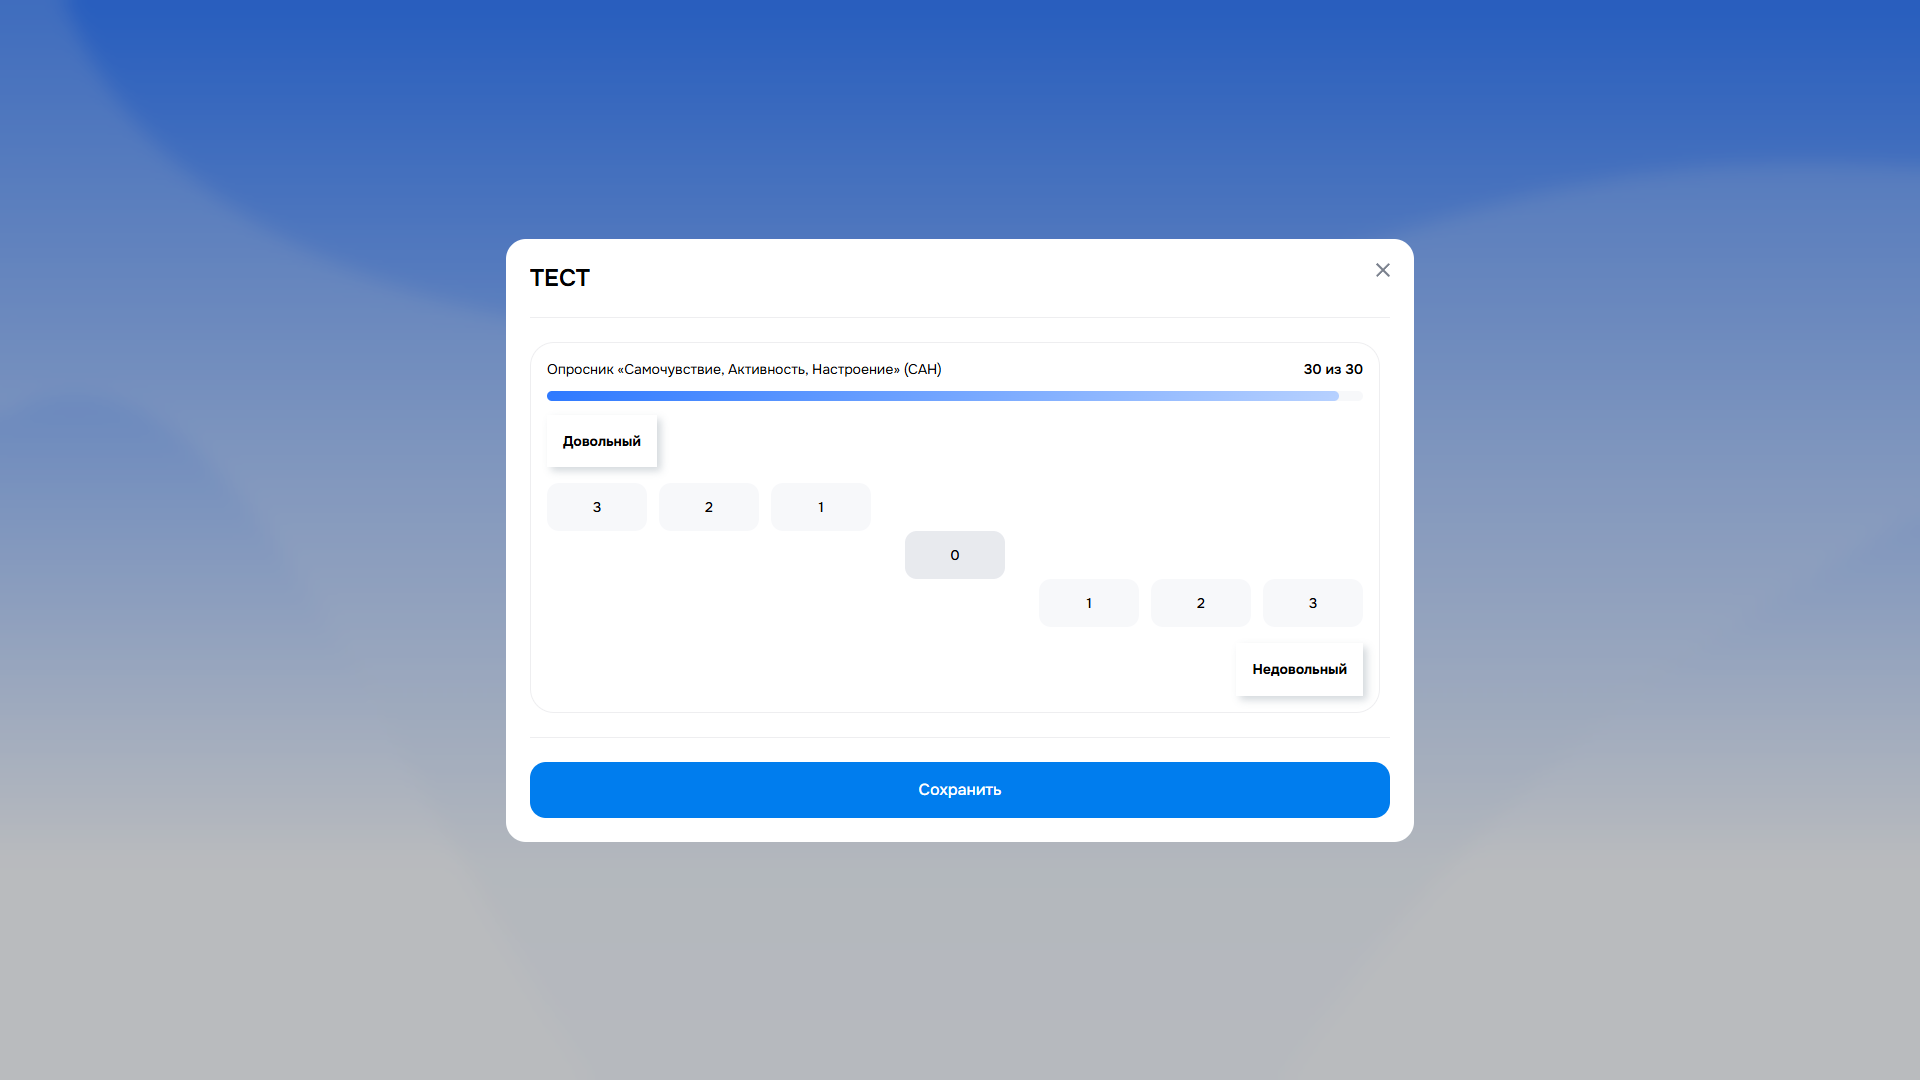
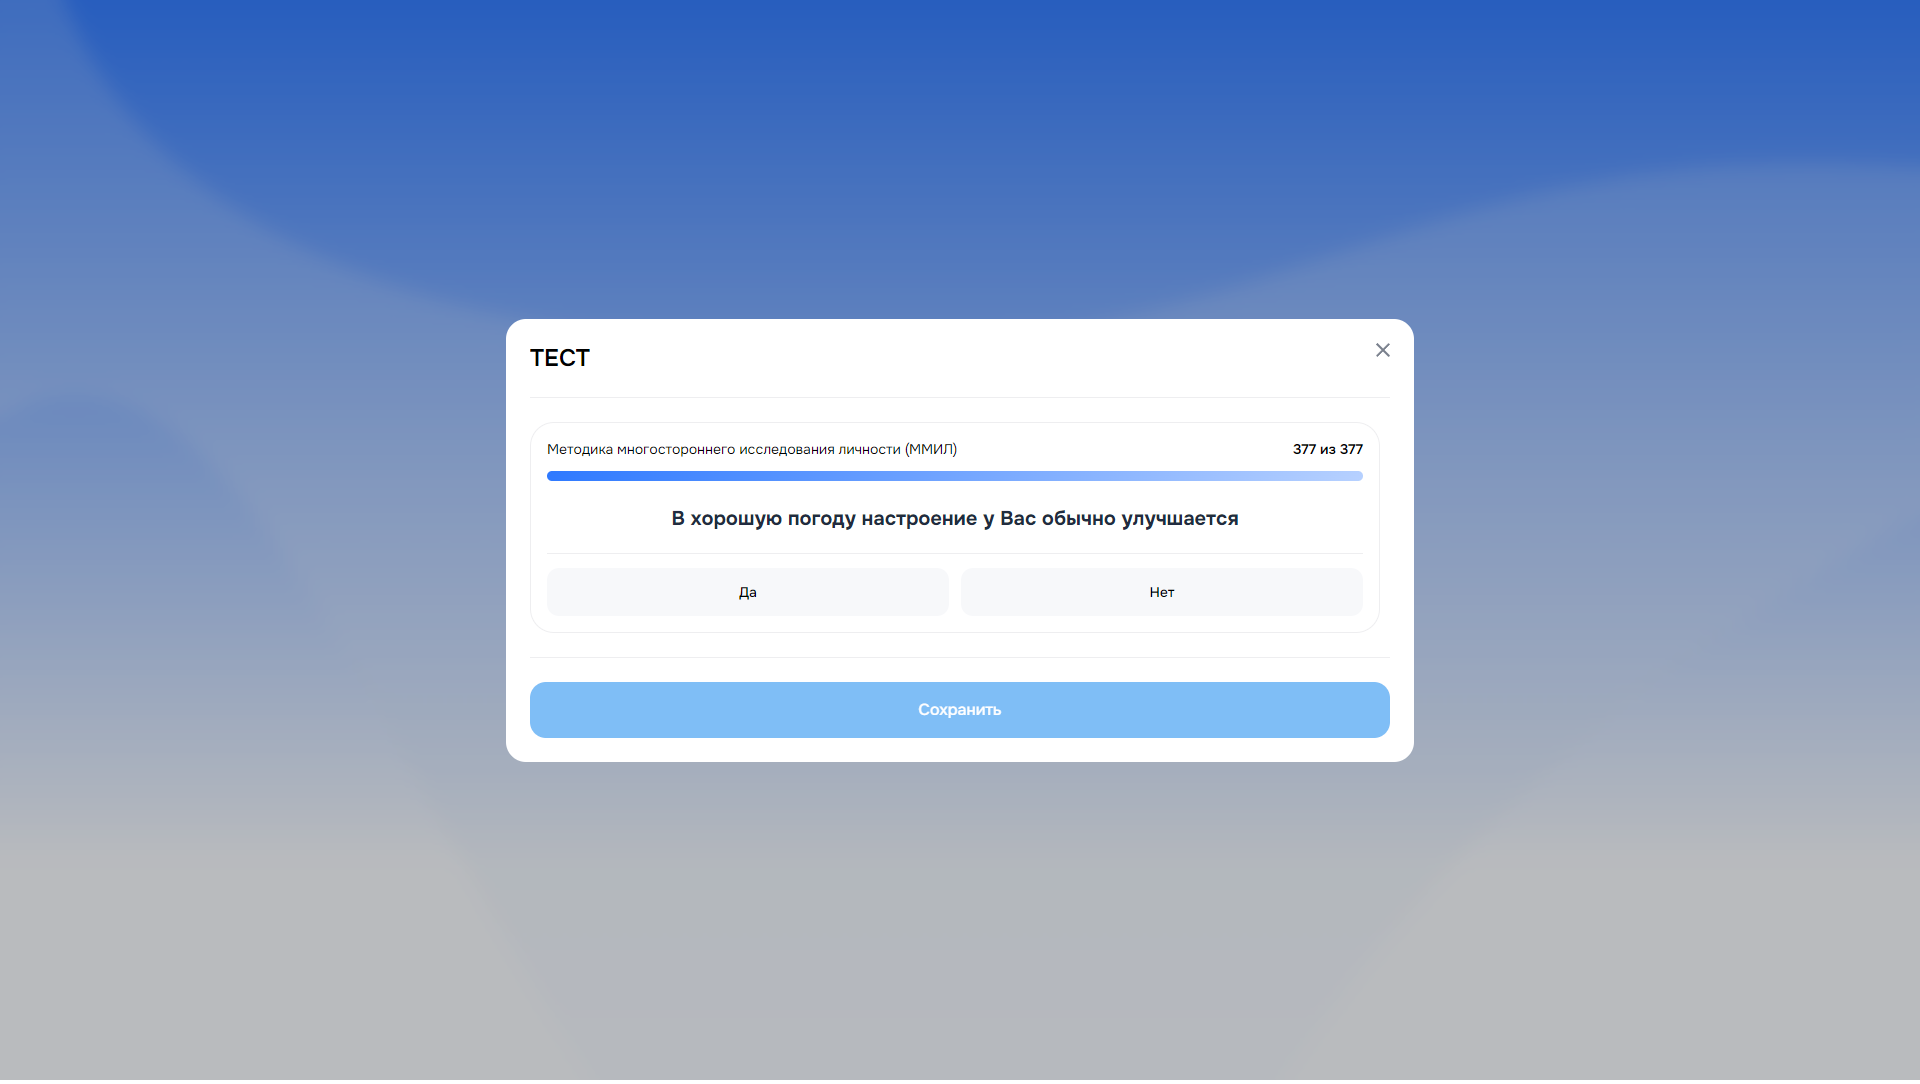
1

Changed region(s): [[0.25, 0.2131, 0.75, 0.4871], [0.25, 0.6089, 0.75, 0.7915]]

diff --git a/tests/test_serb.py b/tests/test_serb.py
@@ -1,3 +1,5 @@
+import time
+
 import pytest
 from core.utils.files_helpers.CAH_data import CAH
 from core.utils.files_helpers.MMIL_data import MMIL
@@ -50,7 +52,7 @@ class TestSerb:
     #     auth_serb.go_to_page_doctor()
     #     auth_serb.check_interpretation_for_test(interpretation)
 
-    @pytest.mark.parametrize('answers', [MMIL.answer_test_less_1])
+    @pytest.mark.parametrize('answers', [MMIL.answer_test_less])
     def test_MMIL(self, auth_serb, answers):
         auth_serb.create_test_go_to_test_MMIL()
         auth_serb.select_test_MMIL()
@@ -61,5 +63,9 @@ class TestSerb:
             auth_serb.save_answer_in_test()
         auth_serb.expect_notification_completed_test()
         auth_serb.go_to_page_doctor()
+
+    #
+    # def test_delete(self, auth_serb):
+    #     auth_serb.delete_all_obs('Ланцов Даниил Андреевич')
 
 

diff --git a/page_objects/page/serb_tests.py b/page_objects/page/serb_tests.py
@@ -120,3 +120,11 @@ class SerbPage(BasePage):
                                          f'!= {text_inter}\n'
                                          f'protokolId: \n'
                                          f'testId: \n')
+
+    def delete_all_obs(self, FIO):
+        self.click(f'//span[text()="{FIO}"]')
+        button_delete = '//div[@class="passedTests-delete"]'
+        while self.wait_visible_elements(button_delete):
+            self.click(button_delete)
+            self.click('//button[@class="button warning fullwidth"]')
+
